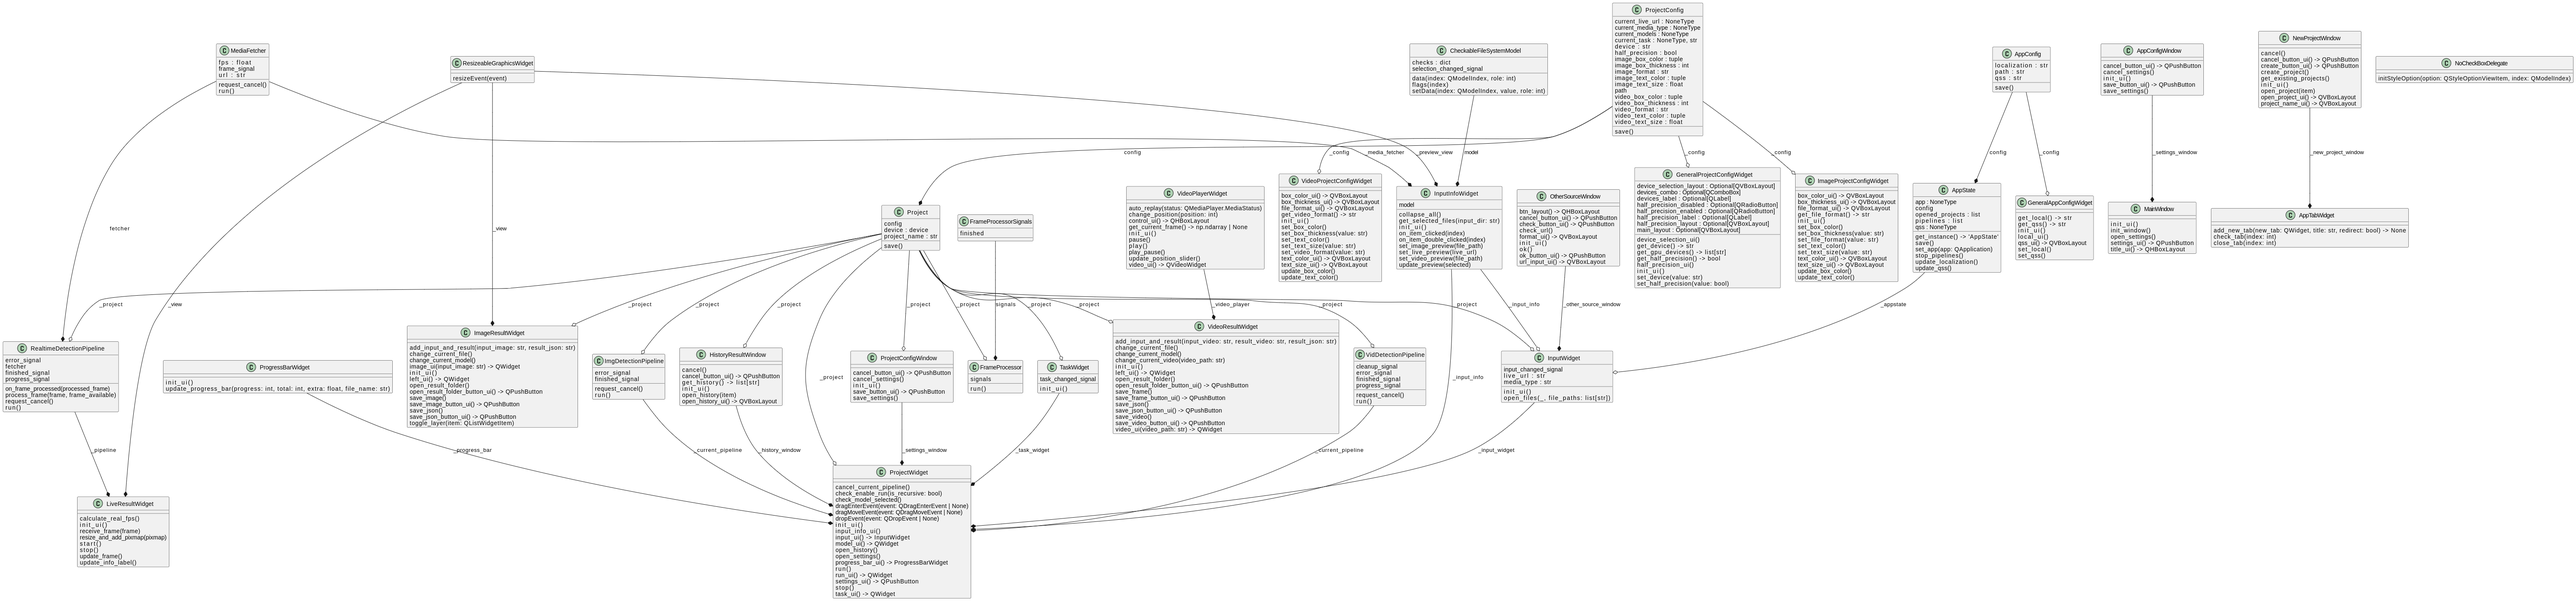
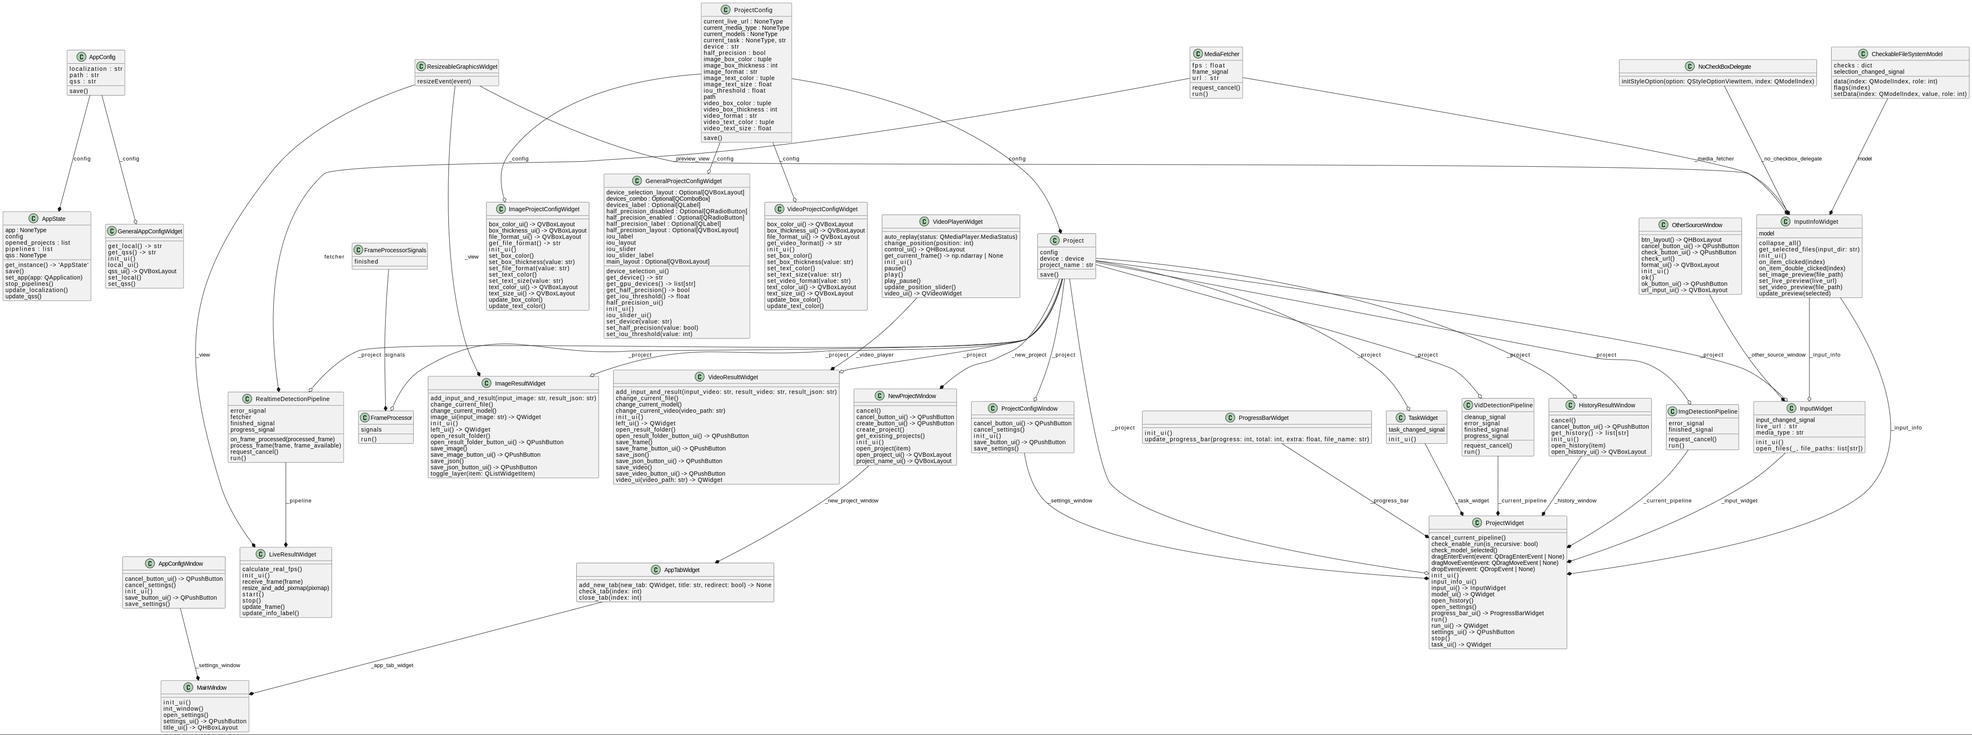
minor change for class diagram

diff --git a/views/input_info_widget.py b/views/input_info_widget.py
@@ -52,6 +52,7 @@ class InputInfoWidget(QWidget):
 
         # PyQT6 Components
         self._qtree_view: Optional[QTreeView] = None
+        self._no_checkbox_delegate: Optional[NoCheckBoxDelegate] = None
         self._scene: Optional[QGraphicsScene] = None
         self._preview_view: Optional[ResizeableGraphicsWidget] = None
         self._preview_container: Optional[QWidget] = None
@@ -75,8 +76,8 @@ class InputInfoWidget(QWidget):
         self._qtree_view.setModel(self.model)
         self._qtree_view.setRootIndex(self.model.index(self._file_dir))
         self._qtree_view.selectionModel().selectionChanged.connect(self.update_preview)
-        no_checkbox_delegate = NoCheckBoxDelegate(self._qtree_view)
-        self._qtree_view.setItemDelegateForColumn(0, no_checkbox_delegate)
+        self._no_checkbox_delegate = NoCheckBoxDelegate(self._qtree_view)
+        self._qtree_view.setItemDelegateForColumn(0, self._no_checkbox_delegate)
         self._qtree_view.doubleClicked.connect(self.on_item_clicked)
         for i in range(1, self.model.columnCount()):
             self._qtree_view.hideColumn(i)

diff --git a/views/new_project_window.py b/views/new_project_window.py
@@ -21,6 +21,7 @@ class NewProjectWindow(QWidget):
         self._project_list: Optional[QListWidget] = None
         self._cancel_button: Optional[QPushButton] = None
         self._save_button: Optional[QPushButton] = None
+        self._new_project: Optional[Project] = None
 
         self._appstate = AppState.get_instance()
         self._add_new_tab = add_new_tab
@@ -103,11 +104,10 @@ class NewProjectWindow(QWidget):
     def open_project(self, item):
         project_name = item.text()
         try:
-            project = Project(project_name)
+            self._new_project = Project(project_name)
         except Exception as e:
             QMessageBox.critical(self, self.tr('Error'), e.args[0])
-
             return
-        new_tab = ProjectWidget(self._add_new_tab, project)
+        new_tab = ProjectWidget(self._add_new_tab, self._new_project)
         self._add_new_tab(new_tab, project_name, True)
         self.close()

diff --git a/views/main_window.py b/views/main_window.py
@@ -20,6 +20,7 @@ class MainWindow(QWidget):
         self._title_layout: Optional[QHBoxLayout] = None
         self._settings_button: Optional[QPushButton] = None
         self._settings_window: Optional[AppConfigWindow] = None
+        self._app_tab_widget: Optional[AppTabWidget] = None
 
         self._appstate = AppState.get_instance()
 
@@ -44,9 +45,11 @@ class MainWindow(QWidget):
         self._top_layout.addStretch(1)
         self._top_layout.addWidget(self.settings_ui())
 
+        self._app_tab_widget = AppTabWidget()
+
         self._main_layout = QGridLayout(self)
         self._main_layout.addLayout(self._top_layout, 0, 0)
-        self._main_layout.addWidget(AppTabWidget(), 1, 0)
+        self._main_layout.addWidget(self._app_tab_widget, 1, 0)
         self.setLayout(self._main_layout)
 
     def title_ui(self) -> QHBoxLayout:

diff --git a/views/input_widget.py b/views/input_widget.py
@@ -14,7 +14,7 @@ from views.other_source_window import OtherSourceWindow
 class InputWidget(QWidget):
     input_changed_signal = pyqtSignal()
 
-    def __init__(self, project: Project, appstate: AppState, input_info: InputInfoWidget):
+    def __init__(self, project: Project, input_info: InputInfoWidget):
         super().__init__()
 
         # PyQT6 Components
@@ -27,7 +27,7 @@ class InputWidget(QWidget):
         self._input_layout: Optional[QVBoxLayout] = None
 
         self._project = project
-        self._appstate = appstate
+        self._appstate = AppState.get_instance()
         self._input_info = input_info
         self.media_type = self._project.config.current_media_type
         self.live_url = self._project.config.current_live_url
